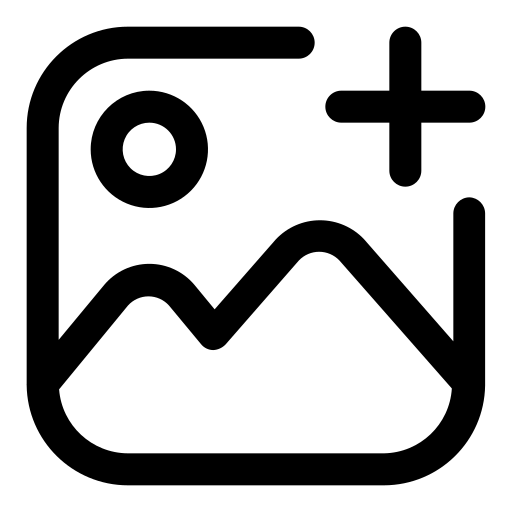
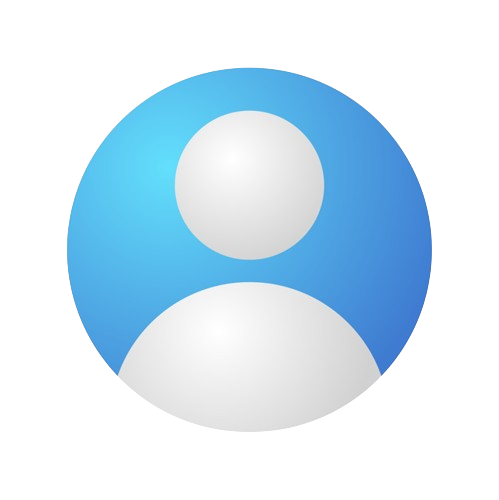
added profile in admin side

diff --git a/lib/user/screens/EditProfilScreen.dart b/lib/user/screens/EditProfilScreen.dart
@@ -63,7 +63,7 @@ class _EditProfilScreenState extends State<EditProfilScreen> {
       Provider.of<UserDataProvider>(context, listen: false)
           ?.updateUserData(requestBody);
       ScaffoldMessenger.of(context).showSnackBar(const SnackBar(
-        content: Text('User updated successfully'),
+        content: Text('Profile updated successfully'),
         duration: Duration(seconds: 3),
       ));
     } else {
@@ -73,7 +73,6 @@ class _EditProfilScreenState extends State<EditProfilScreen> {
       ));
     }
   }
-
   Future<void> _updateUserImage(File imageFile) async {
     final userData =
         Provider.of<UserDataProvider>(context, listen: false)?.userData;
@@ -98,6 +97,10 @@ class _EditProfilScreenState extends State<EditProfilScreen> {
           userData['image'] = base64Encode(imageData!);
           Provider.of<UserDataProvider>(context, listen: false)
               ?.updateUserData(userData);
+              ScaffoldMessenger.of(context).showSnackBar(const SnackBar(
+        content: Text('Your image updated successfully'),
+        duration: Duration(seconds: 3),
+      ));
           print('User image updated successfully');
         } else {
           print('Failed to fetch updated image data');
@@ -180,12 +183,8 @@ class _EditProfilScreenState extends State<EditProfilScreen> {
                                   height: width * 0.35,
                                   width: width * 0.35,
                                   child: CircleAvatar(
-                                    child: SizedBox(
-                                        width: width * 0.2,
-                                        child: Image(
-                                          image: AssetImage(
+                                    backgroundImage: AssetImage(
                                               "assets/images/addpic.png"),
-                                        )),
                                   ),
                                 ),
                               )

diff --git a/lib/main.dart b/lib/main.dart
@@ -3,6 +3,7 @@ import 'package:drive_flow_ui/admin/screens/DashboardAdmin.dart';
 import 'package:drive_flow_ui/admin/screens/HomeScreenAdmin.dart';
 import 'package:drive_flow_ui/user/controller/ButtomBarMenu.dart';
 import 'package:drive_flow_ui/user/providers/UserDataProvider.dart';
+import 'package:drive_flow_ui/user/screens/EditProfilScreen.dart';
 import 'package:drive_flow_ui/user/screens/LoginScreen.dart';
 import 'package:drive_flow_ui/user/screens/SignUpScreen.dart';
 import 'package:drive_flow_ui/user/screens/SplashScreen.dart';
@@ -32,6 +33,7 @@ class _MyAppState extends State<MyApp> {
           'DashboardAdmin':(context) =>const DashboardAdmin(),
           'HomeScreenAdmin':(context) =>const HomeScreenAdmin(),
           'AddPostAdmin':(context) =>const AddPostAdmin(),
+          'EditProfilScreen':(context) => const EditProfilScreen(),
         },
         home: const SplashScreen(),
       ),

diff --git a/lib/admin/Widgets/Header.dart b/lib/admin/Widgets/Header.dart
@@ -1,4 +1,5 @@
 import 'package:flutter/material.dart';
+import 'package:flutter/widgets.dart';
 
 
 
@@ -31,8 +32,13 @@ class Header extends StatelessWidget {
         text,
         style: const TextStyle(fontSize: 25),
       ),
-      const CircleAvatar(
-        backgroundImage: AssetImage("assets/images/admin.jpg"),
+      GestureDetector(
+        onTap: (){
+          Navigator.pushNamed(context, "EditProfilScreen");
+        },
+        child: const CircleAvatar(
+          backgroundImage: AssetImage("assets/images/admin.jpg"),
+        ),
       )
     ],
             );
